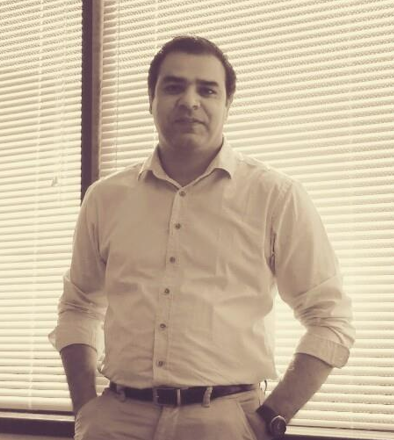
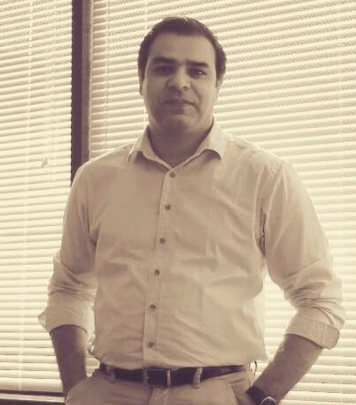
feat: enhance portfolio pages and styling

diff --git a/_layouts/categories_article.html b/_layouts/categories_article.html
@@ -8,7 +8,7 @@ layout: archive
 <ul class="taxonomy__index">
     {% assign sorted_tags = site.tags | sort %}
     {% for tag in sorted_tags %}
-    {% assign cat_tags = tag[1] | where: "categories", "work" | sort %}
+    {% assign cat_tags = tag[1] | where: "categories", "article" | sort %}
     {% if cat_tags != empty %}
     <li>
         <a href="#{{ tag[0] | slugify }}">
@@ -21,7 +21,7 @@ layout: archive
 
 {% assign entries_layout = page.entries_layout | default: 'grid' %}
 {% for tag in sorted_tags %}
-{% assign cat_tags = tag[1] | where: "categories", "work" | sort %}
+{% assign cat_tags = tag[1] | where: "categories", "article" | sort %}
 {% if cat_tags != empty %}
 <section id="{{ tag[0] | slugify | downcase }}" class="taxonomy__section">
     <h2 class="archive__subtitle">{{ tag[0] }}</h2>

diff --git a/_sass/default.scss b/_sass/default.scss
@@ -38,3 +38,22 @@ body {
 #main {
     position: relative;
 }
+
+@media (min-width: 80em) {
+    #main {
+        max-width: 100%;
+    }
+}
+
+@media (min-width: 80em) {
+    .sidebar {
+        width: calc(400px - 1em);
+    }
+}
+
+@media (min-width: 80em) {
+    .archive {
+        width: calc(100% - 400px);
+        padding-right: 200px;
+    }
+}

diff --git a/_includes/head/custom.html b/_includes/head/custom.html
@@ -1,3 +1,4 @@
+<link rel="icon" type="image/png" href="/assets/images/avatar.jpg">
 <link rel="stylesheet" href="/assets/css/custom.css">
 
 <link rel="preconnect" href="https://fonts.googleapis.com">

diff --git a/_sass/author.scss b/_sass/author.scss
@@ -15,7 +15,7 @@
     }
 
     h3.author__name {
-    color: #001933
+    color: #001933;
     }
 
     .sidebar.sticky {
